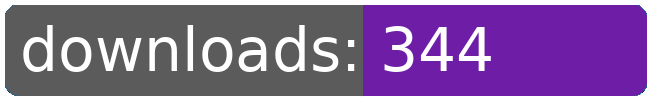
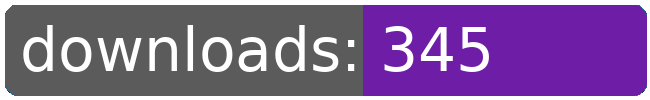
dl log written

Changed region(s): [[0.7077, 0.27, 0.7692, 0.72]]

diff --git a/README.md b/README.md
@@ -21,8 +21,8 @@
 		<td>1405</td>
 		<td>1430</td>
 		<td>1457</td>
-		<td>1469</td>
-		<td>+ 12</td>
+		<td>1470</td>
+		<td>+ 13</td>
 	</tr>
 	<tr>
 		<td>aberrant.kahet.outfitter</td>
@@ -241,8 +241,8 @@
 		<td>290</td>
 		<td>316</td>
 		<td>342</td>
-		<td>344</td>
-		<td>+ 2</td>
+		<td>345</td>
+		<td>+ 3</td>
 	</tr>
 	<tr>
 		<td></td>
@@ -252,8 +252,8 @@
 		<td></td>
 		<td></td>
 		<td></td>
-		<td>20071</td>
-		<td>56</td>
+		<td>20073</td>
+		<td>58</td>
 	</tr>
 </table>
 </sub></sup>
@@ -311,8 +311,8 @@
 		<td>1405</td>
 		<td>1430</td>
 		<td>1457</td>
-		<td>1469</td>
-		<td>+ 12</td>
+		<td>1470</td>
+		<td>+ 13</td>
 	</tr>
 	<tr>
 		<td>purchase.bactrian</td>
@@ -432,8 +432,8 @@
 		<td>290</td>
 		<td>316</td>
 		<td>342</td>
-		<td>344</td>
-		<td>+ 2</td>
+		<td>345</td>
+		<td>+ 3</td>
 	</tr>
 	<tr>
 		<td>purchaseable.androids</td>
@@ -509,8 +509,8 @@
 		<td></td>
 		<td></td>
 		<td></td>
-		<td>20071</td>
-		<td>56</td>
+		<td>20073</td>
+		<td>58</td>
 	</tr>
 </table>
 </sub></sup>
@@ -538,7 +538,7 @@
 		<td>46</td>
 		<td>18</td>
 		<td>40</td>
-		<td>21</td>
+		<td>23</td>
 	</tr>
 	<tr>
 		<td>unique visitors</td>
@@ -550,7 +550,7 @@
 		<td>13</td>
 		<td>9</td>
 		<td>18</td>
-		<td>5</td>
+		<td>7</td>
 	</tr>
 </table>
 <br>
@@ -564,8 +564,8 @@
 	</tr>
 	<tr>
 		<td>2025-10-15</td>
-		<td>2562</td>
-		<td>516</td>
+		<td>2564</td>
+		<td>518</td>
 		<td>192</td>
 		<td>21</td>
 	</tr>
@@ -578,8 +578,8 @@
 	</tr>
 	<tr>
 		<td>53</td>
-		<td>48.34</td>
-		<td>9.74</td>
+		<td>48.38</td>
+		<td>9.77</td>
 		<td></td>
 		<td></td>
 	</tr>
